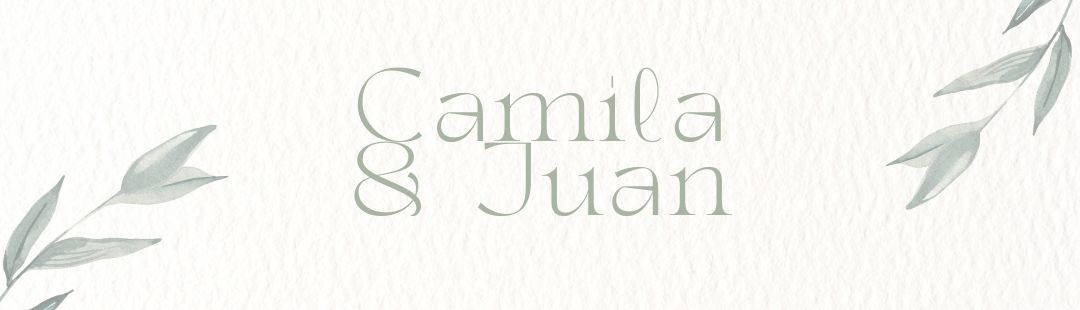
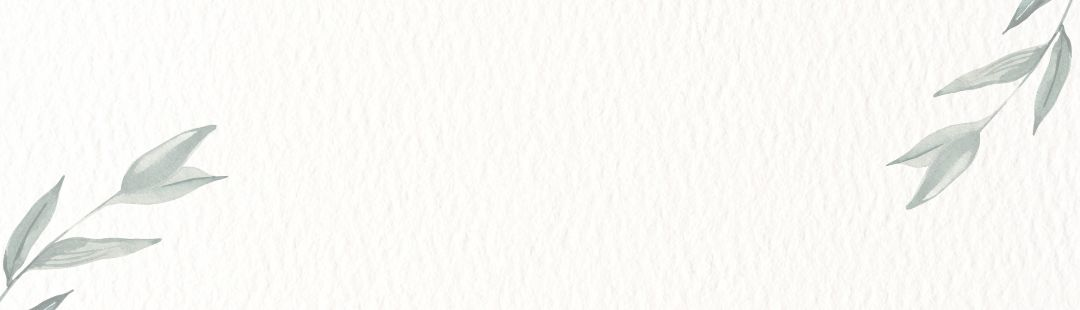
actualizar

diff --git a/style.css b/style.css
@@ -343,16 +343,20 @@ footer img {
     background-repeat: no-repeat;
     background-size: cover;
     width: 100%;
-    height:200px;
+    height:220px;
     display: flex;
     justify-content: center;
+    
+   
+
 }
-.end h2 {
+.end-names img{
+    width: auto;
+    height: auto;
+    max-width: 600px;
     padding: 0;
-    margin: auto;
-    text-align: center;
-    color: var(--color-terciario);
-    font-size: 3em;
+    margin: 0;
+   
 }
 
 @media (max-width: 600px) {
